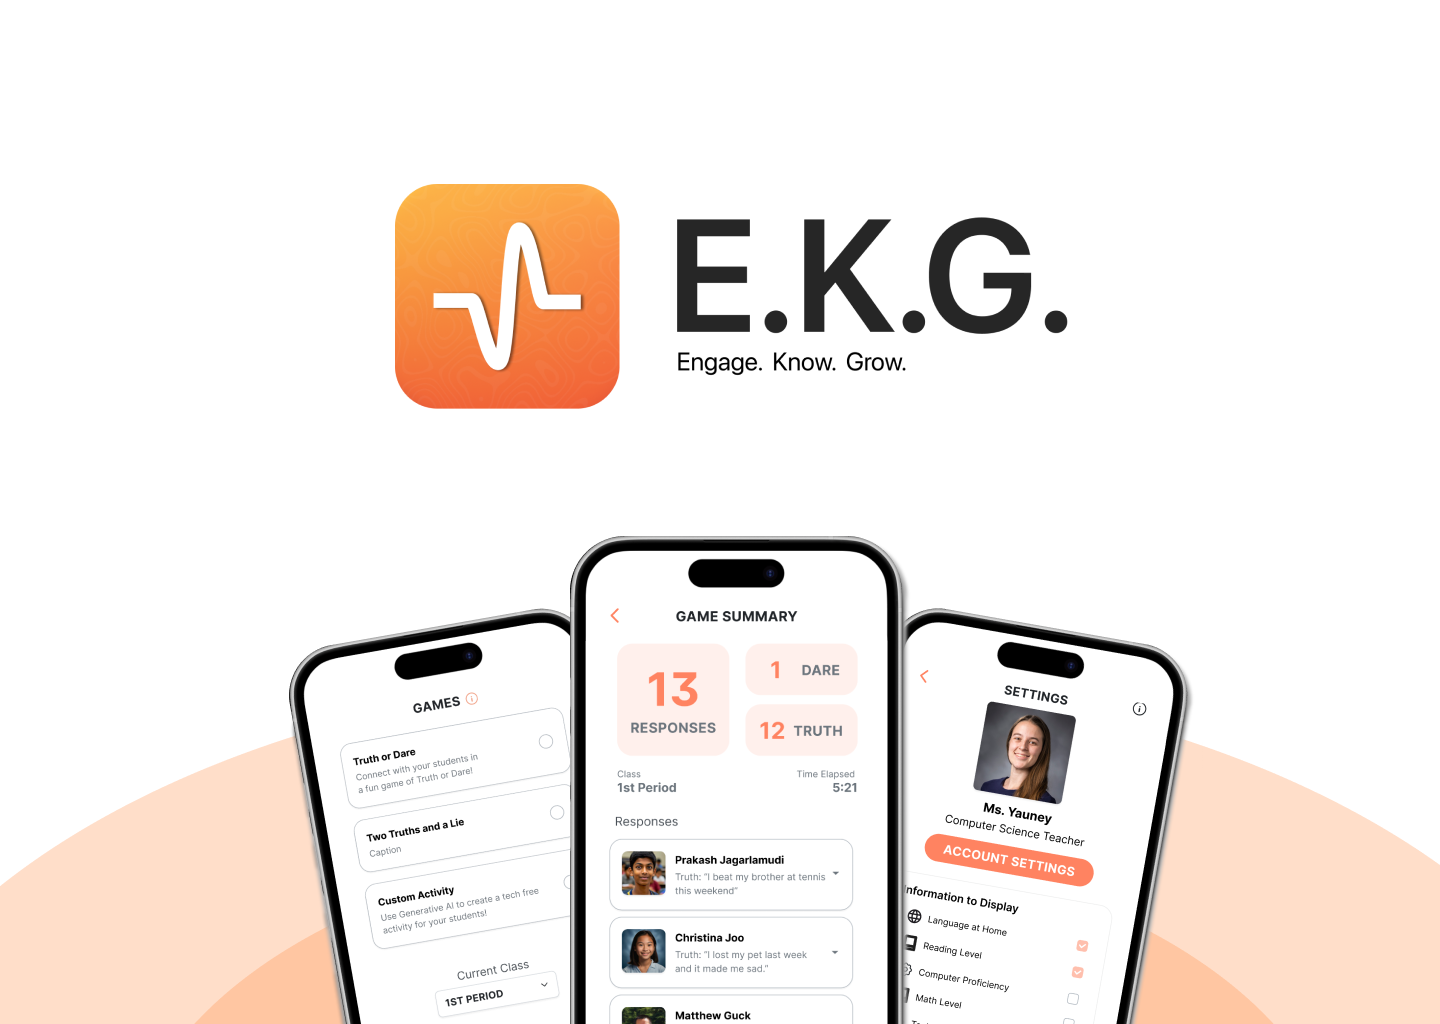
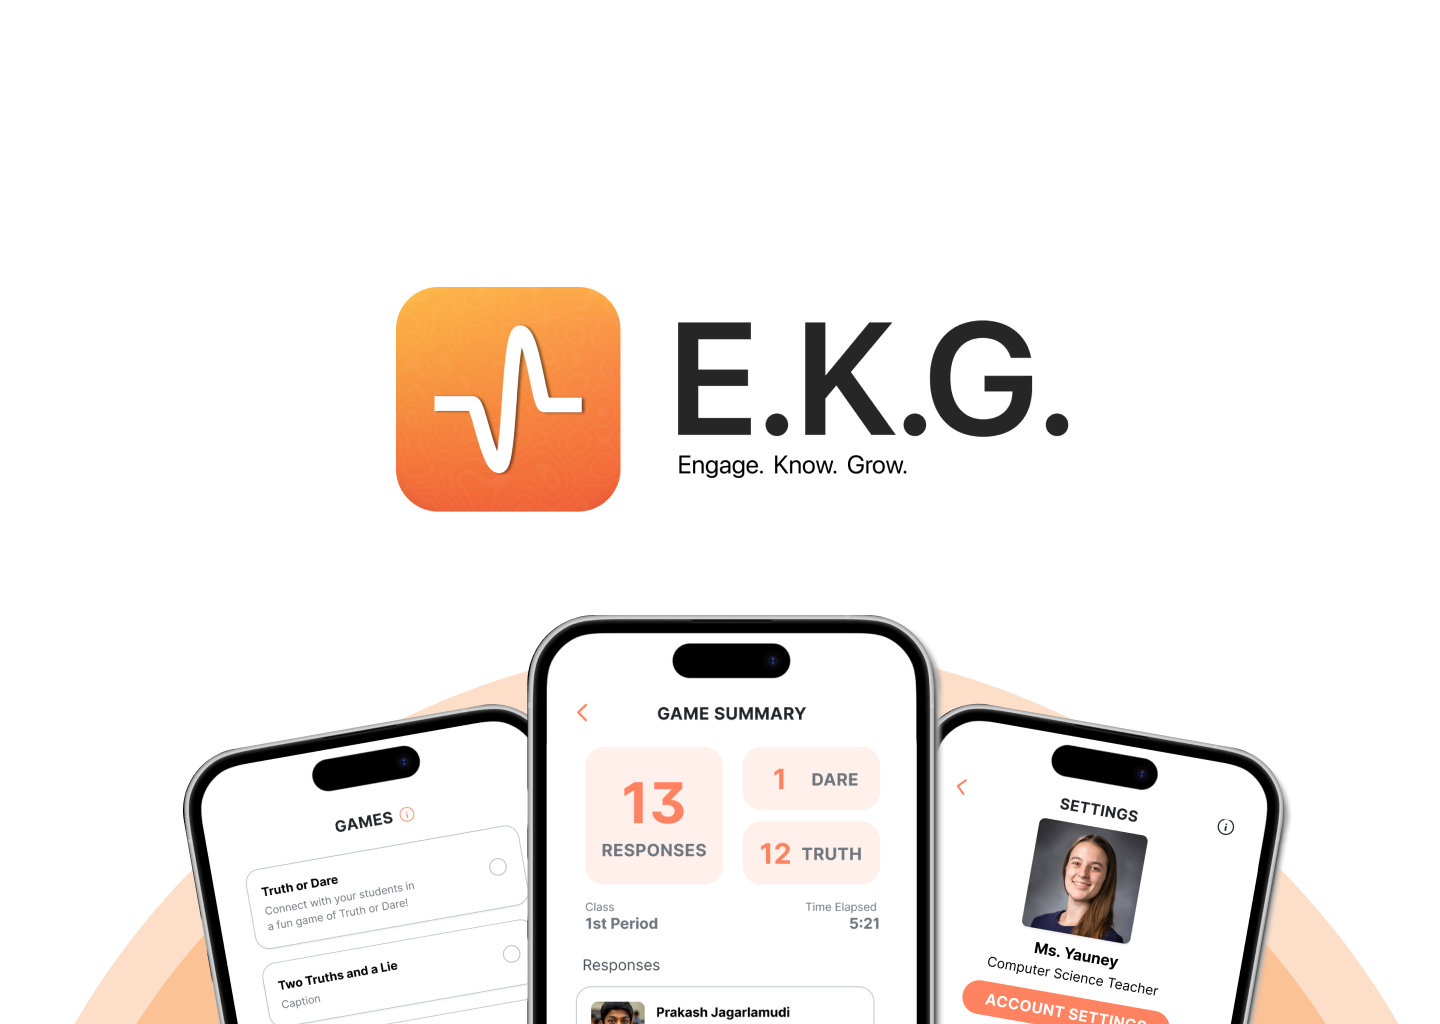
ClarityGrid Image Fix
Home Grid fix

Changed region(s): [[0.0, 0.1562, 1.0, 1.0], [0.4688, 0.1875, 0.75, 0.4688]]

diff --git a/src/components/ProjectDetail.tsx b/src/components/ProjectDetail.tsx
@@ -33,7 +33,7 @@ export function ProjectDetail({ project, onBack }: ProjectDetailProps) {
             Back to Projects
           </motion.button>
 
-          <div className="grid lg:grid-cols-2 gap-12 items-start">
+          <div className="flex flex-col-reverse lg:grid lg:grid-cols-2 gap-12 items-start">
             <div className="space-y-6">
               <div className="space-y-5">
                 <h1 id="project-title" className="text-3xl md:text-4xl font-bold text-gray-900 leading-tight tracking-tight">
@@ -102,12 +102,12 @@ export function ProjectDetail({ project, onBack }: ProjectDetailProps) {
               </div>
             </div>
 
-            <div className="relative group mt-4 lg:mt-0">
-              <div className="relative overflow-hidden rounded-2xl shadow-xl ring-1 ring-gray-200/60">
+            <div className="relative group mt-4 lg:mt-0 w-full lg:w-auto flex justify-center">
+              <div className="relative overflow-hidden rounded-2xl shadow-xl ring-1 ring-gray-200/60 w-[85vw] lg:w-full">
                 <ImageWithFallback
                   src={project.image}
                   alt={project.title}
-                  className="w-full h-64 md:h-80 object-cover"
+                  className="w-full object-contain"
                 />
               </div>
             </div>

diff --git a/src/components/ProjectCard.tsx b/src/components/ProjectCard.tsx
@@ -33,7 +33,7 @@ export function ProjectCard({ title, description, image, tags, liveUrl, githubUr
           <ImageWithFallback
             src={image}
             alt={title}
-            className="w-full h-56 md:h-64 object-cover transition-transform duration-500 group-hover:scale-110"
+            className="w-full aspect-[16/9] object-cover transition-transform duration-500 group-hover:scale-110"
           />
           <div className="absolute inset-0 flex items-center justify-center pointer-events-none">
             <div className="flex gap-4 opacity-0 group-hover:opacity-100 transition-opacity duration-300">

diff --git a/src/layouts/claritygrid.html b/src/layouts/claritygrid.html
@@ -2,7 +2,7 @@
   <!-- Hero / Overview -->
   <section class="items-center">
     <div class="relative flex justify-center">
-      <img src="/images/ClarityGrid.png" style="height: 50vh; width: auto;" alt="ClarityGrid hero" class="rounded-2xl" />
+      <img src="/images/ClarityGrid.png" style="height: auto; width: 90vw;" alt="ClarityGrid hero" class="rounded-2xl" />
     </div>
   </section>
 

diff --git a/src/components/Projects.tsx b/src/components/Projects.tsx
@@ -37,7 +37,7 @@ export function Projects() {
           </p>
         </motion.div>
 
-        <div className="grid grid-cols-1 md:grid-cols-2 lg:grid-cols-3 gap-8">
+        <div className="grid grid-cols-1 min-[500px]:grid-cols-2 lg:grid-cols-3 gap-8">
           {displayedProjects.map((project, index) => (
             <div 
               key={project.id}
